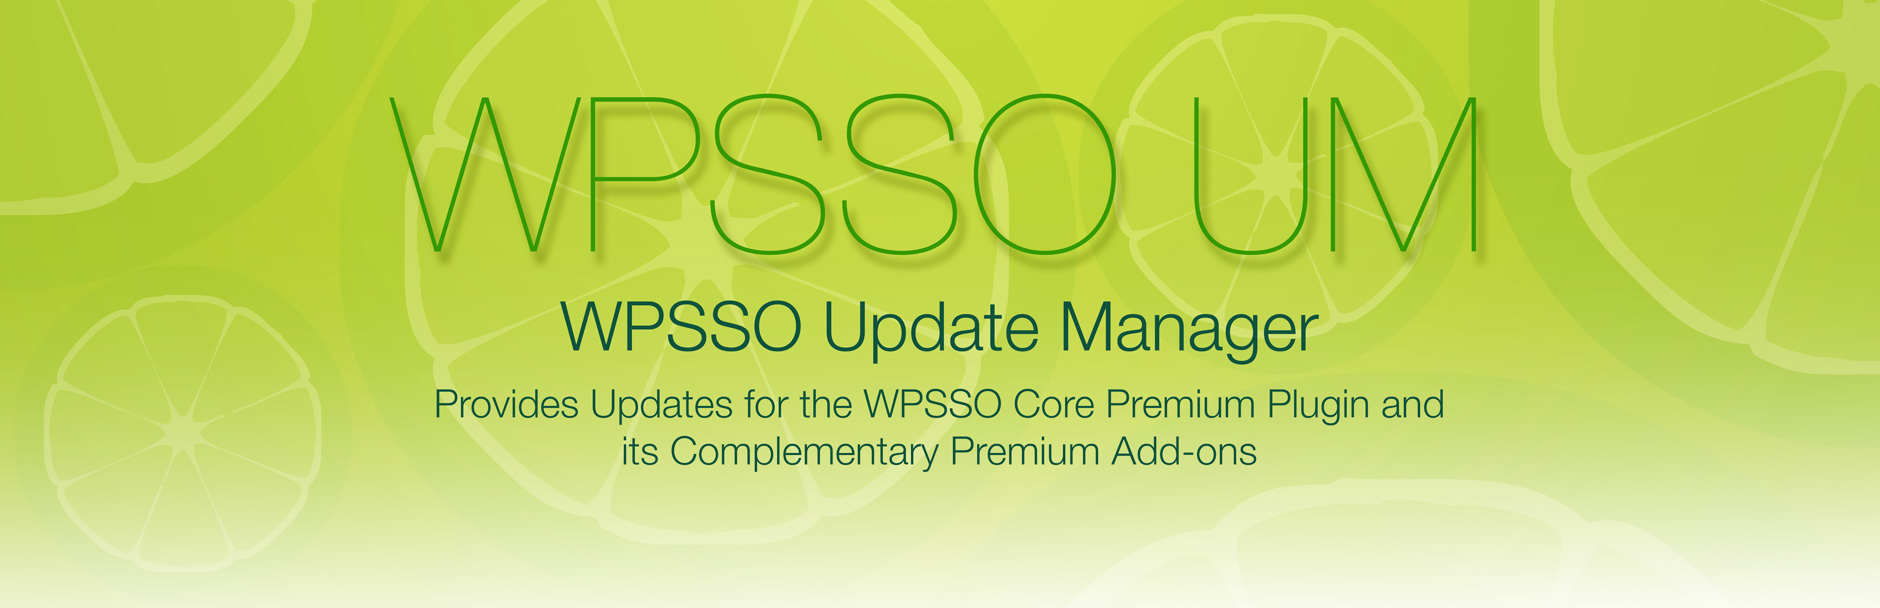
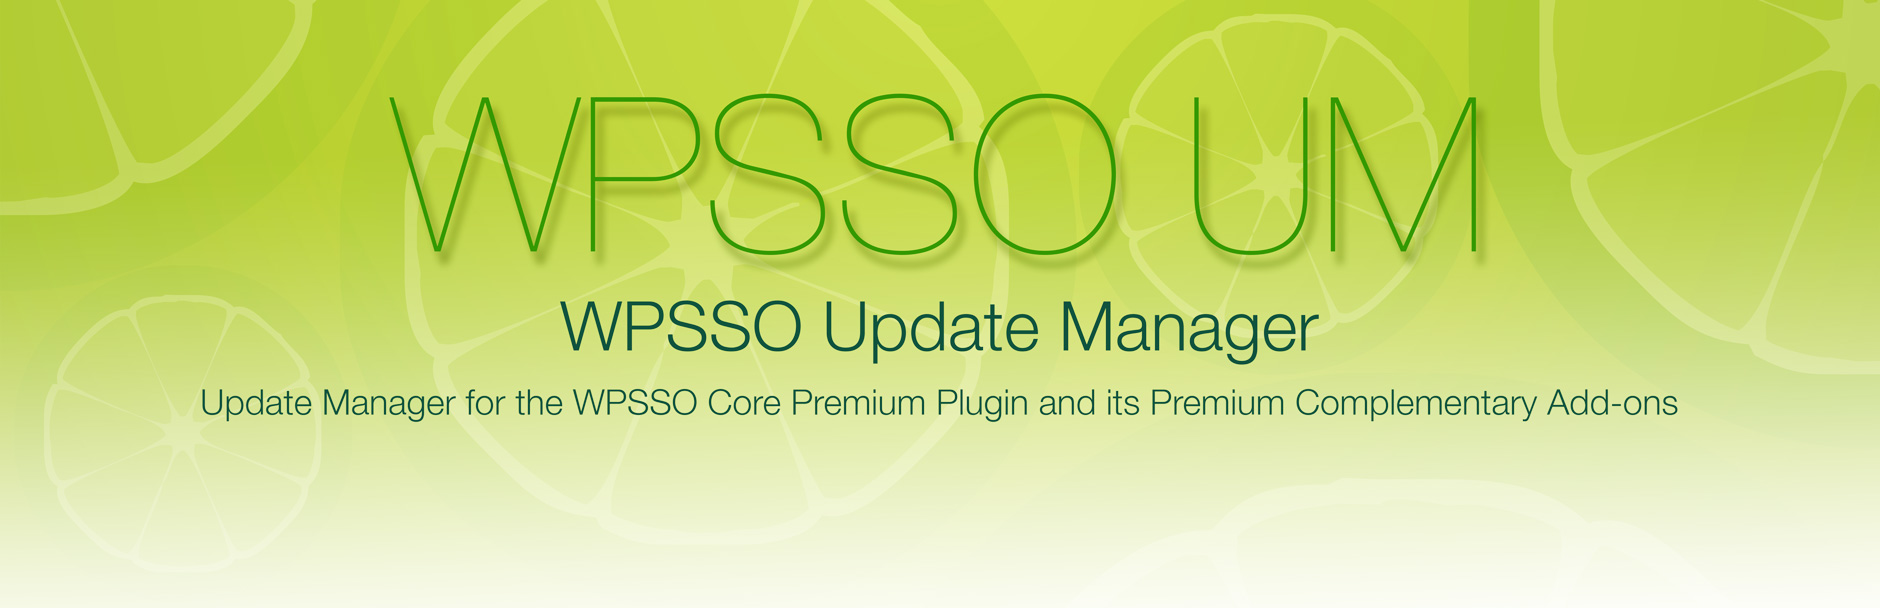
non-essential support files (documentation and assets)

diff --git a/index.html b/index.html
@@ -29,7 +29,7 @@
 
 <table>
 <tr><th align="right" valign="top" nowrap>Plugin Name</th><td>WPSSO Update Manager</td></tr>
-<tr><th align="right" valign="top" nowrap>Summary</th><td>Update manager for the WPSSO Core Premium plugin and its complementary Premium add-ons.</td></tr>
+<tr><th align="right" valign="top" nowrap>Summary</th><td>Update Manager for the WPSSO Core Premium Plugin and its Premium Complementary Add-ons.</td></tr>
 <tr><th align="right" valign="top" nowrap>Stable Version</th><td>2.7.0</td></tr>
 <tr><th align="right" valign="top" nowrap>Requires PHP</th><td>5.6 or newer</td></tr>
 <tr><th align="right" valign="top" nowrap>Requires WordPress</th><td>4.2 or newer</td></tr>
